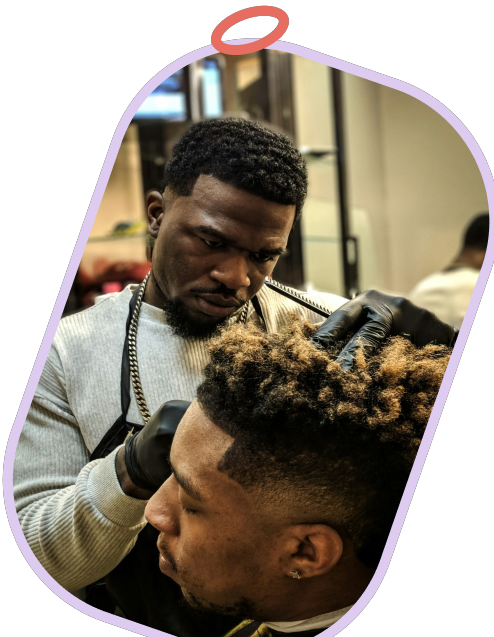
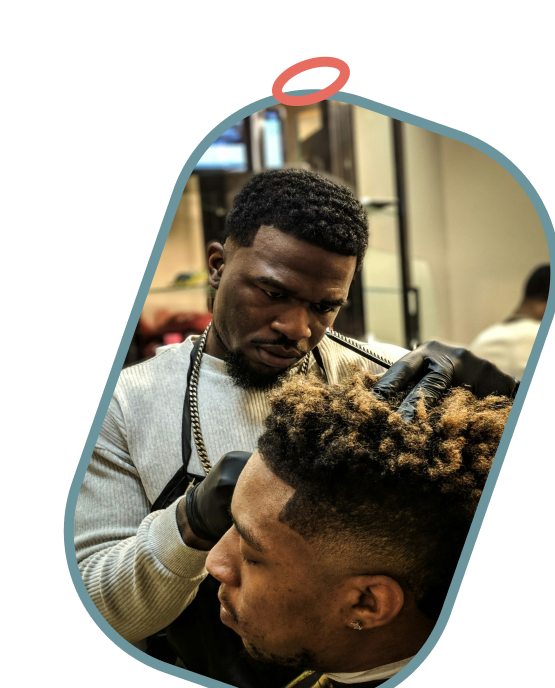
change design color

diff --git a/app/(root)/page.tsx b/app/(root)/page.tsx
@@ -123,7 +123,7 @@ export default function Home() {
                 className="object-contain object-top w-full h-full block"
               />
           </figure>
-          <figure className="w-[30px] lg:w-[35px] xl:w-[50px] absolute top-0 left-0 z-0">
+          {/* <figure className="w-[30px] lg:w-[35px] xl:w-[50px] absolute top-0 left-0 z-0">
               <Image
                 src="/assets/images/premscent.png"
                 alt="premscent"
@@ -131,12 +131,12 @@ export default function Home() {
                 height={15}
                 className="w-full object-contain block"
               />
-          </figure>
+          </figure> */}
         </div>
         <div className="flex flex-col items-start justify-center gap-y-4 xl:gap-y-6 pt-12 lg:pt-20">
           <div className="flex items-center gap-3">
             <span className="block w-14 h-[2px] bg-primary-1 rounded-full"></span>
-            <h1 className="text-xl text-primary-1">About Premscent</h1>
+            <h1 className="text-xl text-primary-1">About Exserc</h1>
           </div>
           <h2 className="font-bold text-2xl xl:text-[50px] text-black-1 xl:leading-[58px]">Get your needs sorted <br /> out from your place of <br /> comfort</h2>
           <p className="text-start text-[13px] leading-[17px] xl:text-xl text-black-2 max-w-80 xl:max-w-[450px]">Lorem ipsum dolor sit amet,consectetur
@@ -164,7 +164,7 @@ export default function Home() {
           <div className="flex flex-col items-center lg:items-start justify-center gap-y-6 pt-8 lg:pt-20">
             <div className="flex items-center gap-3">
               <span className="block w-14 h-[2px] bg-primary-1 rounded-full"></span>
-              <h1 className="text-xl text-primary-1">About Premscent</h1>
+              <h1 className="text-xl text-primary-1">About Exserc</h1>
             </div>
             <h2 className="font-bold text-center lg:text-start text-2xl xl:text-[40px] text-black-1 xl:leading-[48px]">We Provide Exclusive <br /> Marketing Service</h2>
             <div className="flex flex-col items-start gap-y-16 mt-8">
@@ -361,7 +361,7 @@ export default function Home() {
                 className="object-cover block"
               />
             </figure>
-            <div className="bg-[rgba(154,101,207,0.35)] text-xs text-white flex items-center justify-center absolute top-0 left-0 w-full h-full">
+            <div className="bg-[#225f6a51] text-xs text-white flex items-center justify-center absolute top-0 left-0 w-full h-full">
               <p className="text-center">Lorem, ipsum dolor sit amet consectetur adipisicing elit. Ducimus rerum provident sit sed!</p>
             </div>
           </div>

diff --git a/app/(dashboard)/seeker/page.tsx b/app/(dashboard)/seeker/page.tsx
@@ -56,7 +56,7 @@ const Seeker = () => {
                     <Dialog>
                         <DialogTrigger className="self-start">
                             <div className='flex items-center gap-2 px-4 py-1 hover:shadow-md transition-all cursor-pointer'>
-                                <div className='flex items-center gap-2 p-1 px-2 rounded-sm'>
+                                <div className='flex items-center gap-2 p-1 px-2 rounded-sm bg-white'>
                                     <FaMapLocationDot className="w-4 h-4 text-primary-1" />
                                     <p className='text-sm text-primary-1'>Edit</p>
                                 </div>
@@ -108,11 +108,11 @@ const Seeker = () => {
                             </div>
                         </DialogContent>
                     </Dialog>
-                    <div className='self-start py-1 gap-6 hidden lg:flex'>
+                    <div className='self-start py-1 gap-4 hidden lg:flex'>
                          {
                         Dashboardlinks.map(({name, path}) => (
-                            <Link key={name} href={path} className={cn('text-white hover:text-primary-1 text-base font-medium', {
-                                "text-[#9A65CF]": path === pathname
+                            <Link key={name} href={path} className={cn('text-white px-2 rounded-sm hover:text-primary-1 text-base font-medium', {
+                                "text-white": path === pathname
                             })} >{name}</Link>
                         ))
                     }

diff --git a/components/dashboard/DSidebar.tsx b/components/dashboard/DSidebar.tsx
@@ -23,7 +23,7 @@ const DSidebar = () => {
                         {
                             Dashboardlinks.map(({name, path, icon}) => (
                                 <Link key={name} href={path} className={cn('text-[#3C3742] px-3 py-4 w-full flex justify-start gap-x-2 text-[20px] font-normal', {
-                                    "font-medium bg-[#9A65CF4D]": path === pathname
+                                    "font-medium bg-primary-2": path === pathname
                                 })} >
                                     <div className='w-5 h-5 flex items-center justify-center pt-3'>
                                         <Image alt={`${icon} icon`} className='object-cover w-auto h-auto' priority width={18} height={18} src={`/assets/images/icons/${icon}`} />

diff --git a/components/Navbar.tsx b/components/Navbar.tsx
@@ -8,7 +8,6 @@ import { usePathname } from 'next/navigation'
 import { cn, links } from '@/lib/utils'
 import { HamburgerMenuIcon } from '@radix-ui/react-icons'
 import { SheetTrigger } from './ui/sheet'
-import { FaMapLocationDot } from 'react-icons/fa6'
 
 
 
@@ -27,7 +26,7 @@ const Navbar = () => {
                     {
                         links.map(({name, path}) => (
                             <Link key={name} href={path} className={cn('text-[#3C3742] text-[17px] font-medium', {
-                                "text-[#9A65CF]": path === pathname
+                                "text-primary-1": path === pathname
                             })} >{name}</Link>
                         ))
                     }

diff --git a/components/ui/button.tsx b/components/ui/button.tsx
@@ -10,7 +10,7 @@ const buttonVariants = cva(
     variants: {
       variant: {
         default:
-          "bg-primary-1 text-white shadow hover:bg-white hover:border-[#9A65CF] hover:text-[#9A65CF] tracking-wider font-semibold border-[2px] border-transparent dark:bg-slate-50 dark:text-slate-900 dark:hover:bg-slate-50/90",
+          "bg-primary-1 text-white shadow hover:bg-white hover:border-primary-1 hover:text-primary-1 tracking-wider font-semibold border-[2px] border-transparent dark:bg-slate-50 dark:text-slate-900 dark:hover:bg-slate-50/90",
         destructive:
           "bg-red-500 text-slate-50 shadow-sm hover:bg-red-500/90 dark:bg-red-900 dark:text-slate-50 dark:hover:bg-red-900/90",
         outline:

diff --git a/components/Footer.tsx b/components/Footer.tsx
@@ -71,7 +71,7 @@ const Footer = () => {
             </div>
         <div className="pt-8 flex items-center justify-center border-t-[1px] border-[#ffffff42] w-[98%]">
             <aside>
-                <p className='text-sm md:text-base'>{`Copyright © ${new Date().getFullYear()} - All right reserved by PremScent`}</p>
+                <p className='text-sm md:text-base'>{`Copyright © ${new Date().getFullYear()} - All right reserved by Exserc`}</p>
             </aside>
         </div>
     </footer>

diff --git a/app/(auth)/layout.tsx b/app/(auth)/layout.tsx
@@ -2,7 +2,7 @@ import type { Metadata } from "next";
 import "../globals.css";
 
 export const metadata: Metadata = {
-  title: "Premscent - Login | Register",
+  title: "Exserc - Login | Register",
   description: "user login and registration page",
 };
 

diff --git a/app/(dashboard)/user/subscription/page.tsx b/app/(dashboard)/user/subscription/page.tsx
@@ -1,6 +1,6 @@
 import React from 'react'
 
-const page = () => {
+const Subscription = () => {
   return (
     <div>
         subscription page
@@ -8,4 +8,4 @@ const page = () => {
   )
 }
 
-export default page
+export default Subscription

diff --git a/tailwind.config.ts b/tailwind.config.ts
@@ -47,7 +47,8 @@ const config = {
       },
       colors: {
         primary: {
-          1: "#9A65CF"
+          1: "#225F6A",
+          2: "rgba(34, 95, 106, 0.3)"
         },
         black: {
           1: "#3C3742",

diff --git a/app/(root)/layout.tsx b/app/(root)/layout.tsx
@@ -6,7 +6,7 @@ import Menubar from "@/components/Menubar";
 
 
 export const metadata: Metadata = {
-  title: "Premscent - Home",
+  title: "Exserc - Home",
   description: "Search and hire service workers",
 };
 
